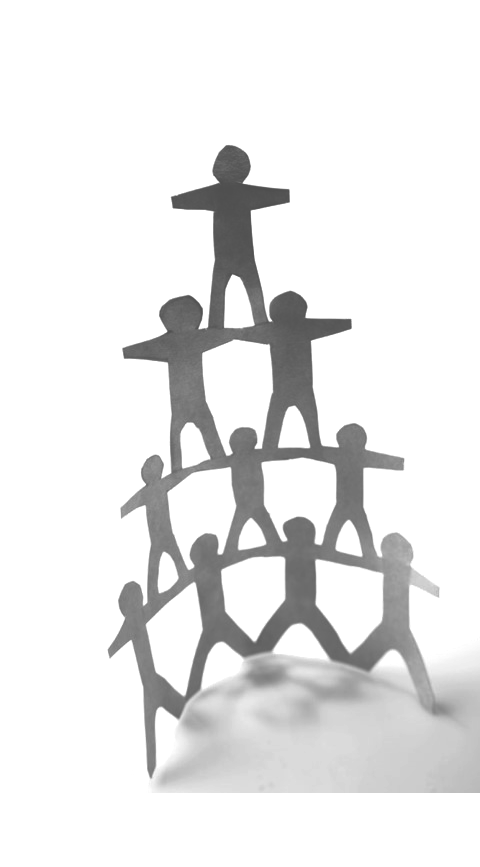
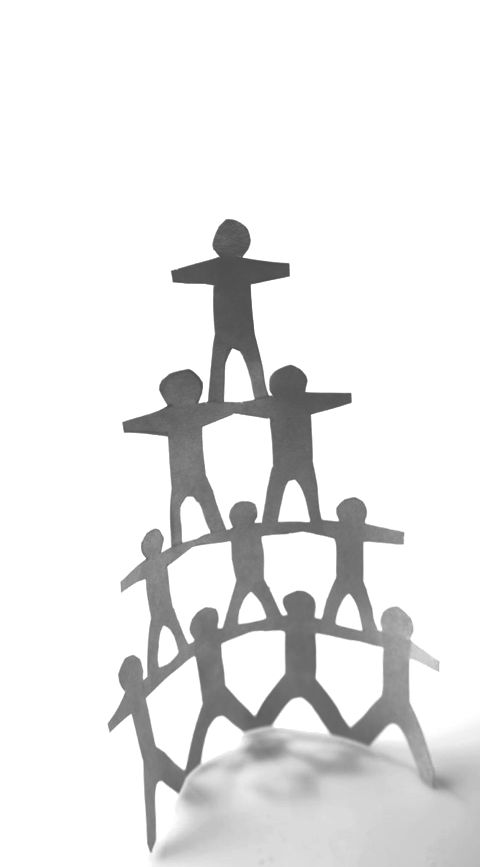
Conhecimento: pirâmide alinhada pela base com a linha de baixo do esquema (a sobra de branco vai toda para cima)

Changed region(s): [[0.2188, 0.1557, 1.0, 1.0]]

diff --git a/index.html b/index.html
@@ -2561,7 +2561,7 @@ body>*{position:relative;z-index:1}
 <li class="ar-item ar-item--i"><a href="estudos-pesquisa.html">Estudos e pesquisa aplicada</a><span class="ar-normas"><span>Nota técnica</span><span>Observatório setorial</span><span>EUDR</span></span></li>
 </ul>
   </div>
-  <div class="ar-foto" aria-hidden="true"><img src="img/conhecimento-foto-bayer.webp?v=6" data-lum="img/conhecimento-foto-lum.webp?v=6" alt="" width="480" height="867" loading="lazy" decoding="async"></div>
+  <div class="ar-foto" aria-hidden="true"><img src="img/conhecimento-foto-bayer.webp?v=7" data-lum="img/conhecimento-foto-lum.webp?v=7" alt="" width="480" height="867" loading="lazy" decoding="async"></div>
   </div>
 </section>
 

diff --git a/_ferramentas/arcos/foto.py b/_ferramentas/arcos/foto.py
@@ -47,13 +47,16 @@ def main():
     im = ImageOps.mirror(Image.open(CRU).convert('L'))
     l = PISO + (1 - PISO) * np.clip(np.asarray(im, dtype=np.float64) / 255 / .96, 0, 1) ** GAMA
     # fundo branco na proporcao da vaga: mais largo que a foto -> sobra dos
-    # lados; mais estreito -> sobra em cima e embaixo. A foto nunca e cortada.
+    # lados; mais estreito -> sobra em CIMA. A foto nunca e cortada.
     if im.width / im.height < VAGA:
         h = im.height; w = round(h * VAGA)
     else:
         w = im.width; h = round(w / VAGA)
     lum = np.ones((h, w))
-    x0, y0 = (w - im.width) // 2, (h - im.height) // 2
+    # 22/09: «alinhe a figura da direita no bottom com o painel mosaico»: a sobra
+    # vertical vai TODA para cima, entao a base da piramide fica na linha de baixo
+    # do esquema. A sobra horizontal continua dividida, com a piramide centrada.
+    x0, y0 = (w - im.width) // 2, h - im.height
     lum[y0:y0 + im.height, x0:x0 + im.width] = l
     img = os.path.join(SITE, 'img')
     Image.fromarray((lum * 255).round().astype(np.uint8), 'L').save(

diff --git a/_ferramentas/arcos/monta.py b/_ferramentas/arcos/monta.py
@@ -185,8 +185,8 @@ def secao(L):
         svg(L),
         arcos.lista(),
         '  </div>',
-        '  <div class="ar-foto" aria-hidden="true"><img src="img/conhecimento-foto-bayer.webp?v=6" '
-        'data-lum="img/conhecimento-foto-lum.webp?v=6" alt="" width="480" height="867" loading="lazy" decoding="async"></div>',
+        '  <div class="ar-foto" aria-hidden="true"><img src="img/conhecimento-foto-bayer.webp?v=7" '
+        'data-lum="img/conhecimento-foto-lum.webp?v=7" alt="" width="480" height="867" loading="lazy" decoding="async"></div>',
         '  </div>',
         '</section>',
     ])
